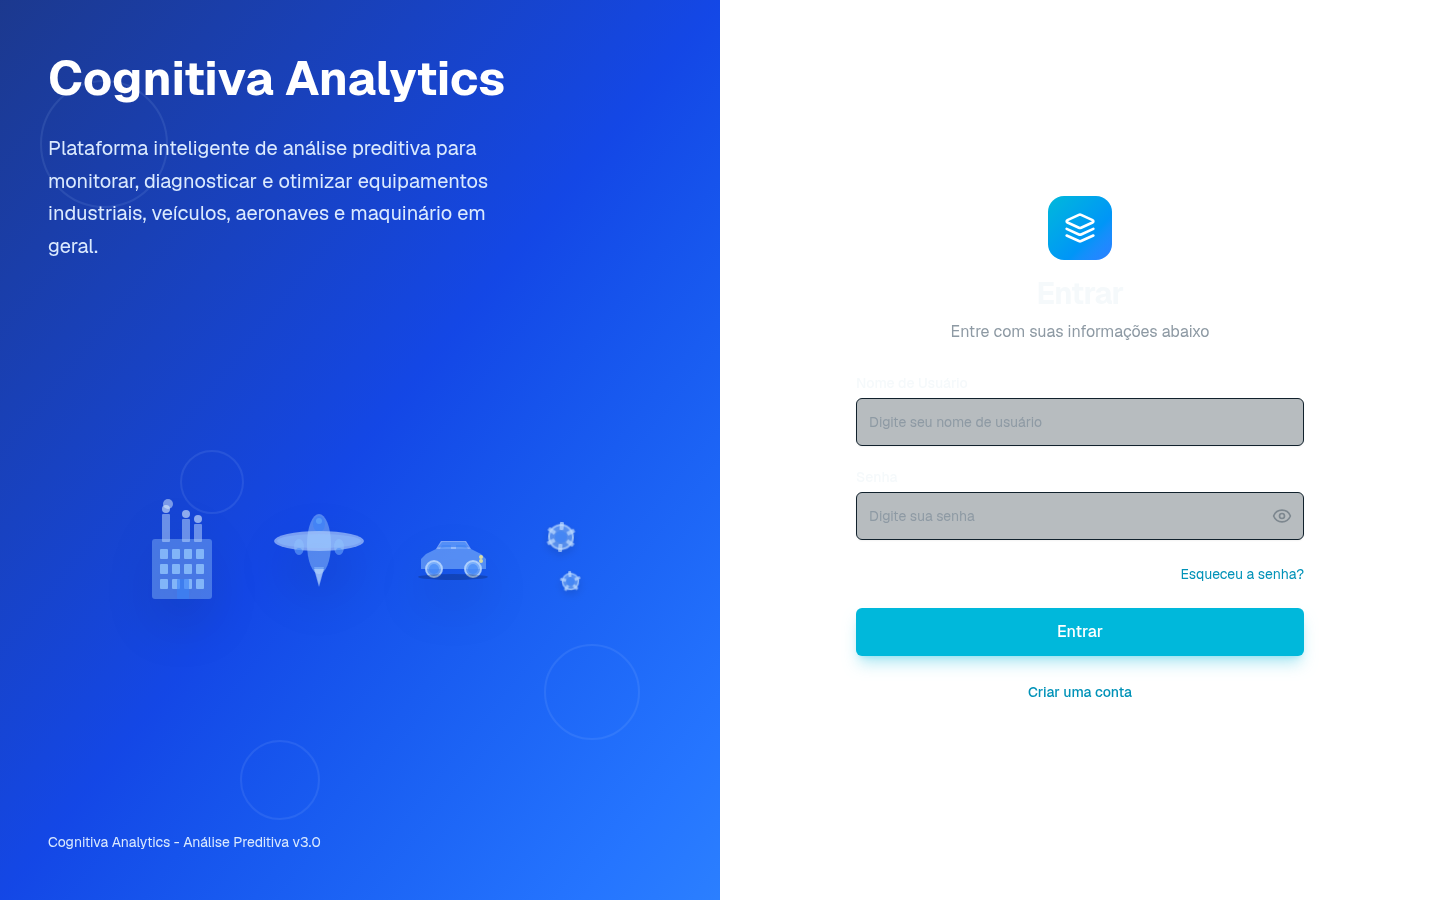
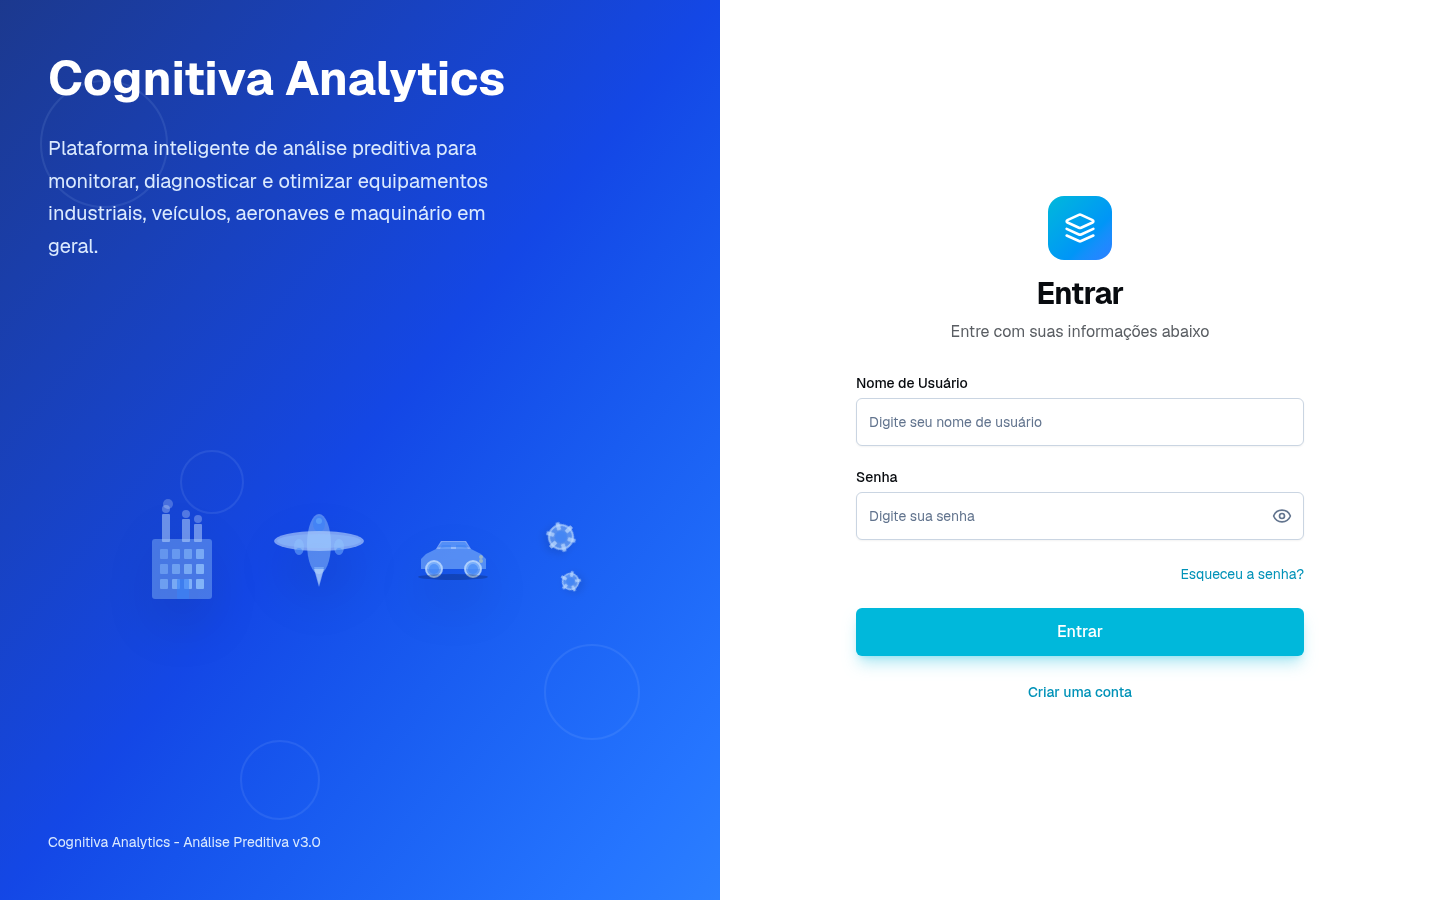
Polish login visuals and GitHub documentation

diff --git a/components/login-form.tsx b/components/login-form.tsx
@@ -64,7 +64,7 @@ export function LoginForm() {
             value={formData.username}
             onChange={(e) => setFormData({ ...formData, username: e.target.value })}
             required
-            className="h-12"
+            className="h-12 border-slate-300 bg-white text-slate-900 placeholder:text-slate-500 focus-visible:ring-cyan-500"
           />
         </div>
 
@@ -78,12 +78,12 @@ export function LoginForm() {
               value={formData.password}
               onChange={(e) => setFormData({ ...formData, password: e.target.value })}
               required
-              className="h-12 pr-10"
+              className="h-12 border-slate-300 bg-white pr-10 text-slate-900 placeholder:text-slate-500 focus-visible:ring-cyan-500"
             />
             <button
               type="button"
               onClick={() => setShowPassword(!showPassword)}
-              className="absolute right-3 top-1/2 -translate-y-1/2 text-muted-foreground hover:text-foreground transition-colors"
+              className="absolute right-3 top-1/2 -translate-y-1/2 text-slate-500 transition-colors hover:text-slate-900"
               aria-label={showPassword ? "Ocultar senha" : "Mostrar senha"}
             >
               {showPassword ? <EyeOff className="w-5 h-5" /> : <Eye className="w-5 h-5" />}

diff --git a/README.md b/README.md
@@ -16,9 +16,10 @@
 - [Arquitetura de dados](#arquitetura-de-dados)
 - [Stack original do projeto Next](#stack-original-do-projeto-next)
 - [Screenshots](#screenshots)
-- [Texto para LinkedIn](#texto-para-linkedin)
 - [Deploy](#deploy)
 - [Licença](#licença)
+
+![Dashboard da plataforma](public/readme-dashboard.png)
 
 ## Visão geral
 
@@ -102,23 +103,9 @@ Sim. É um caso de uso de persistência poliglota: o **RDS PostgreSQL** é adequ
 
 ![Tela de login](public/readme-login.png)
 
-### Dashboard e monitoramento de máquinas
-
-![Dashboard](public/readme-dashboard.png)
-
 ### Análise de máquinas
 
 ![Análise de máquinas](public/readme-analysis.png)
-
-## Texto para LinkedIn
-
-> Hoje recebi as fotos da minha formatura e elas me fizeram lembrar de um projeto muito especial: a plataforma **Cognitiva Analytics**, desenvolvida para ser apresentada no festival de tecnologia **Next, da FIAP**.
->
-> Na época, tive a oportunidade de apresentar o projeto ao lado da **Anna, do Robélio e do Vitor**, e conquistamos o **2º lugar** com a nossa equipe. Por conta de outros imprevistos e do tempo, acabei compartilhando a plataforma no LinkedIn antes de publicar este registro.
->
-> A solução foi construída com **microfrontends**, AWS Amplify, AWS Lambda, Amazon MQ, AWS IoT Core, Amazon S3, Amazon Athena, Amazon QuickSight, Amazon Bedrock com Claude, Amazon DynamoDB e Amazon RDS for PostgreSQL. O objetivo era coletar e analisar dados de máquinas, combinando telemetria, mensageria, analytics e inteligência artificial para apoiar a manutenção preditiva.
->
-> Rever este projeto quase um ano depois reforça o quanto aprendi sobre arquitetura distribuída, cloud e trabalho em equipe. Obrigado, Anna, Robélio e Vitor, por fazerem parte dessa jornada.
 
 ## Deploy
 
